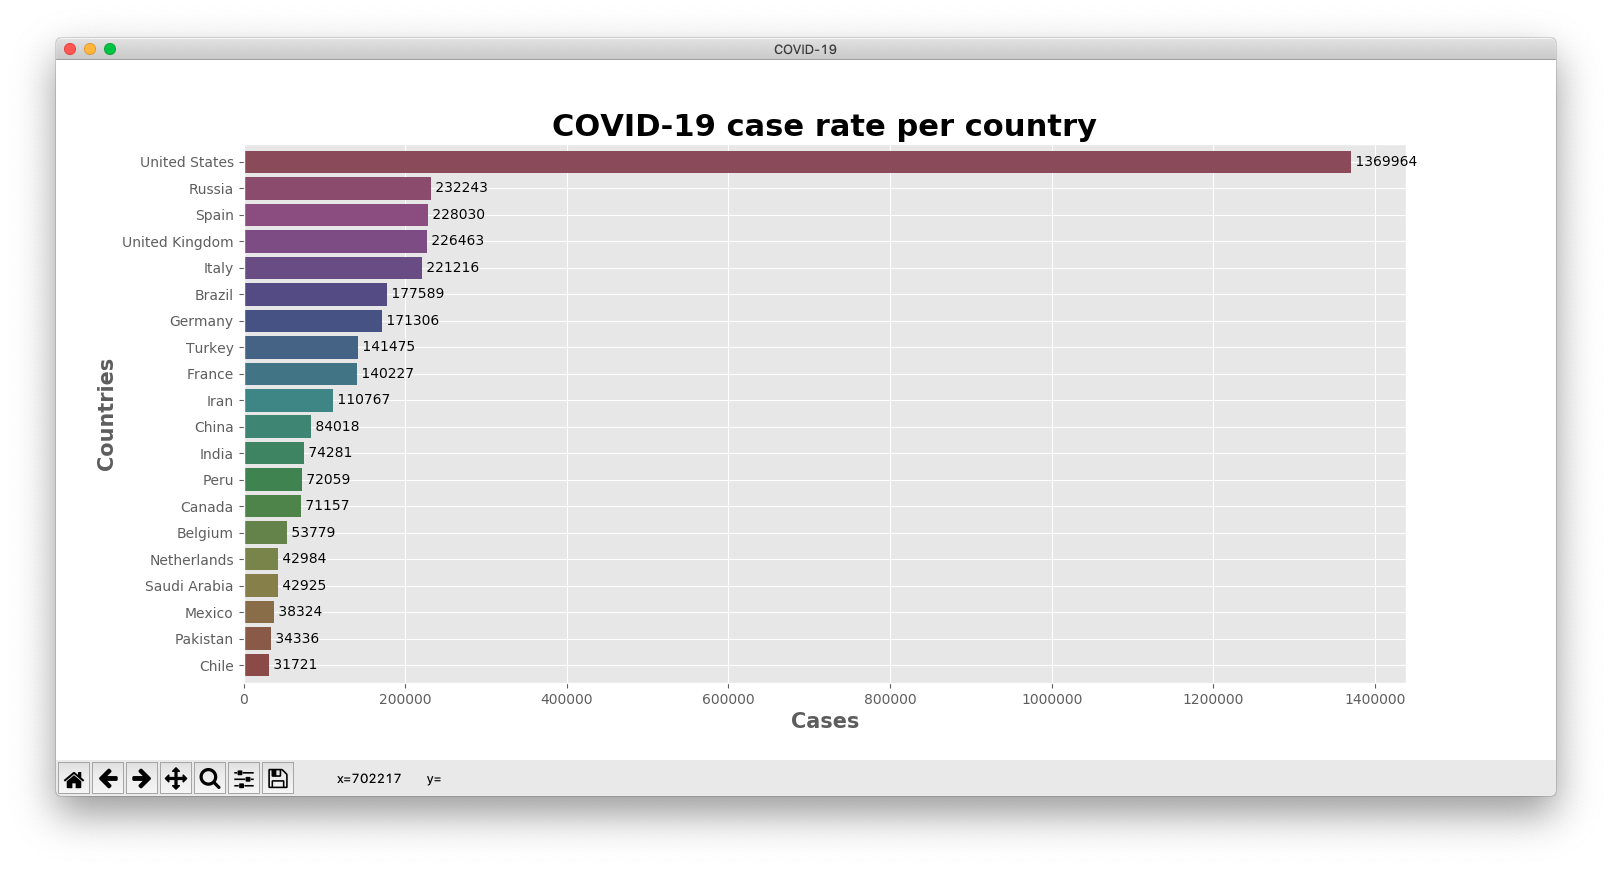
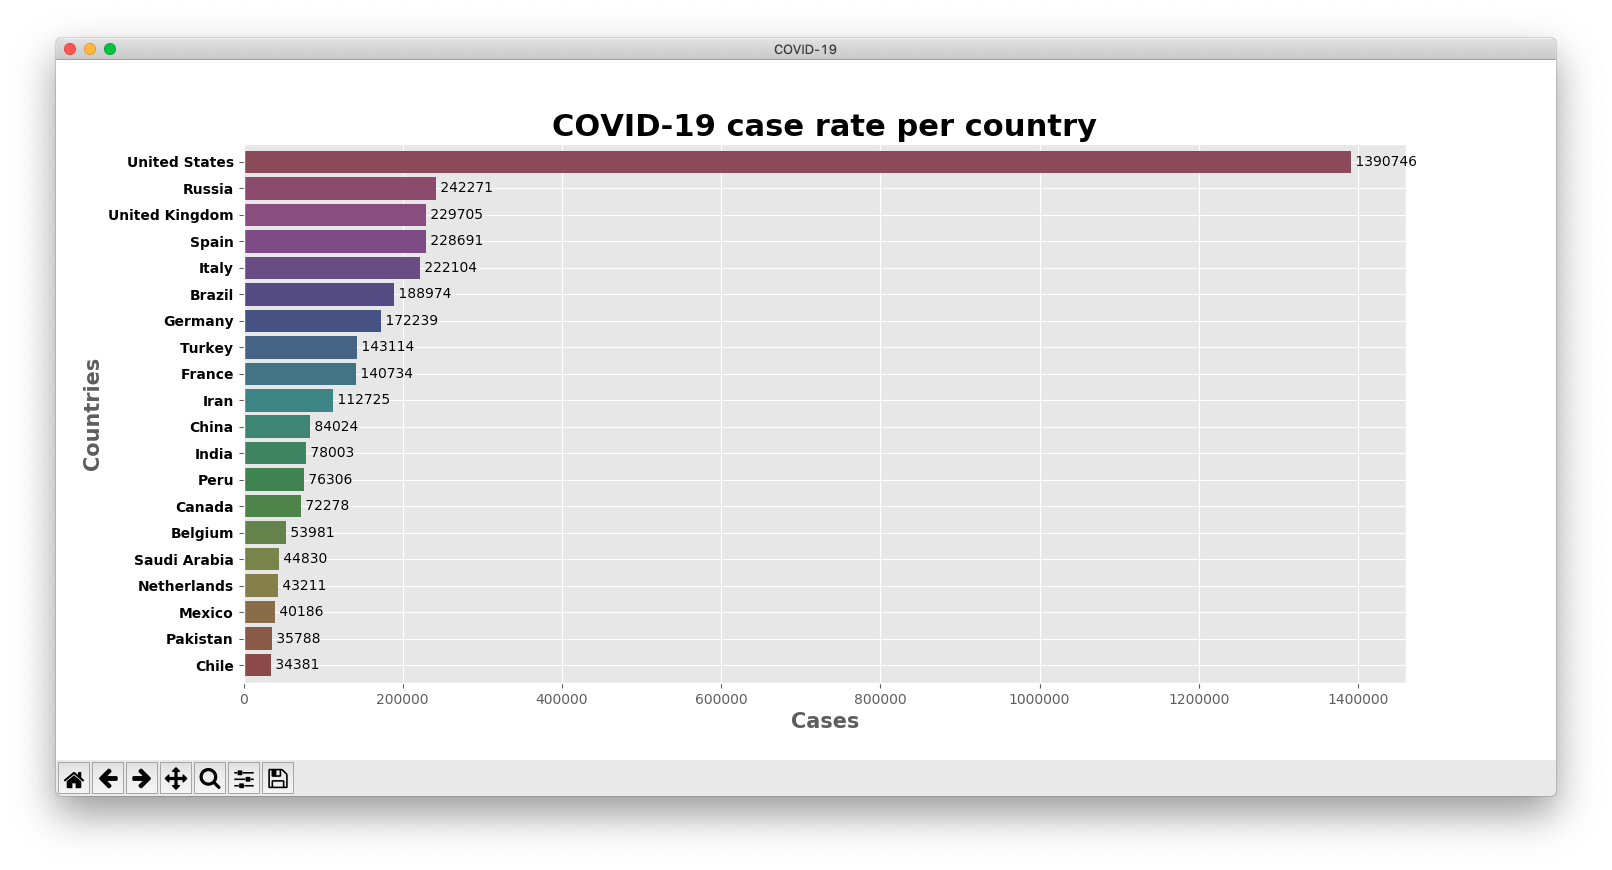
updated images

diff --git a/main_script.py b/main_script.py
@@ -22,8 +22,8 @@ def main():
     df = import_data()
     youngest = max(df['date'])
     print(f"Updated: {youngest}")
-    #show_most_cases('3', df)
-    #show_most_cases('4', df)
+    show_most_cases('3', df)
+    show_most_cases('4', df)
     compare_countries(df, youngest)
 
 if __name__ == "__main__":
